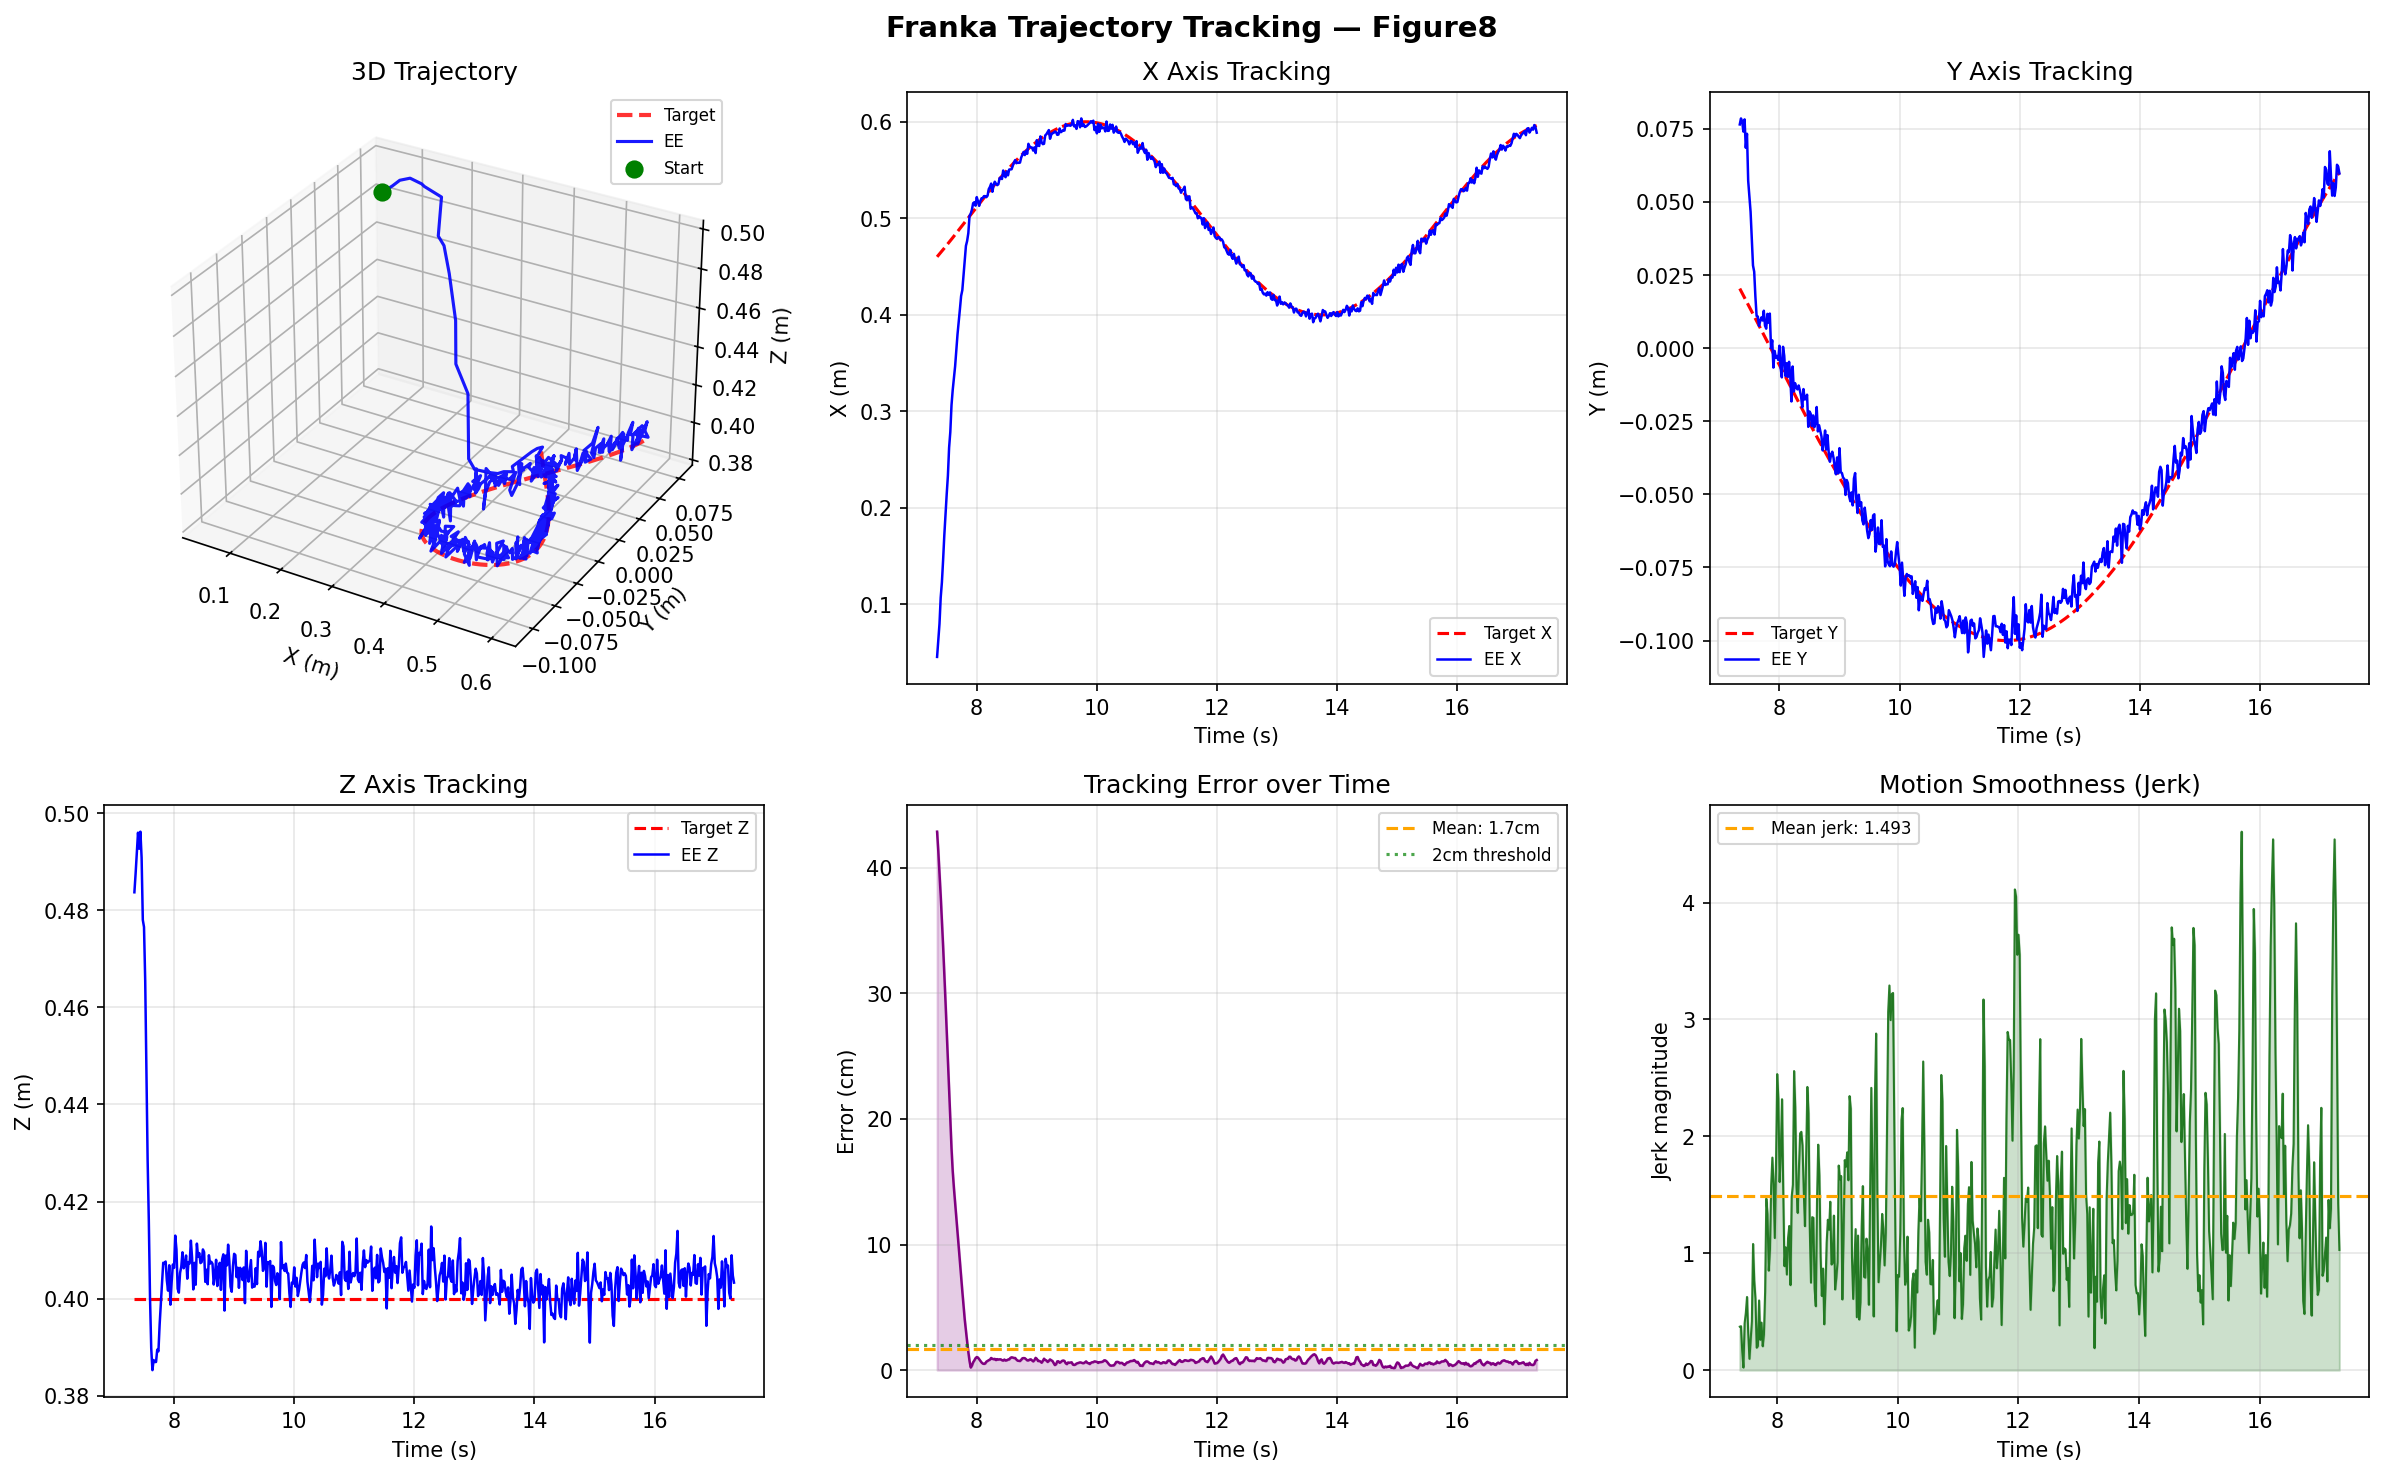
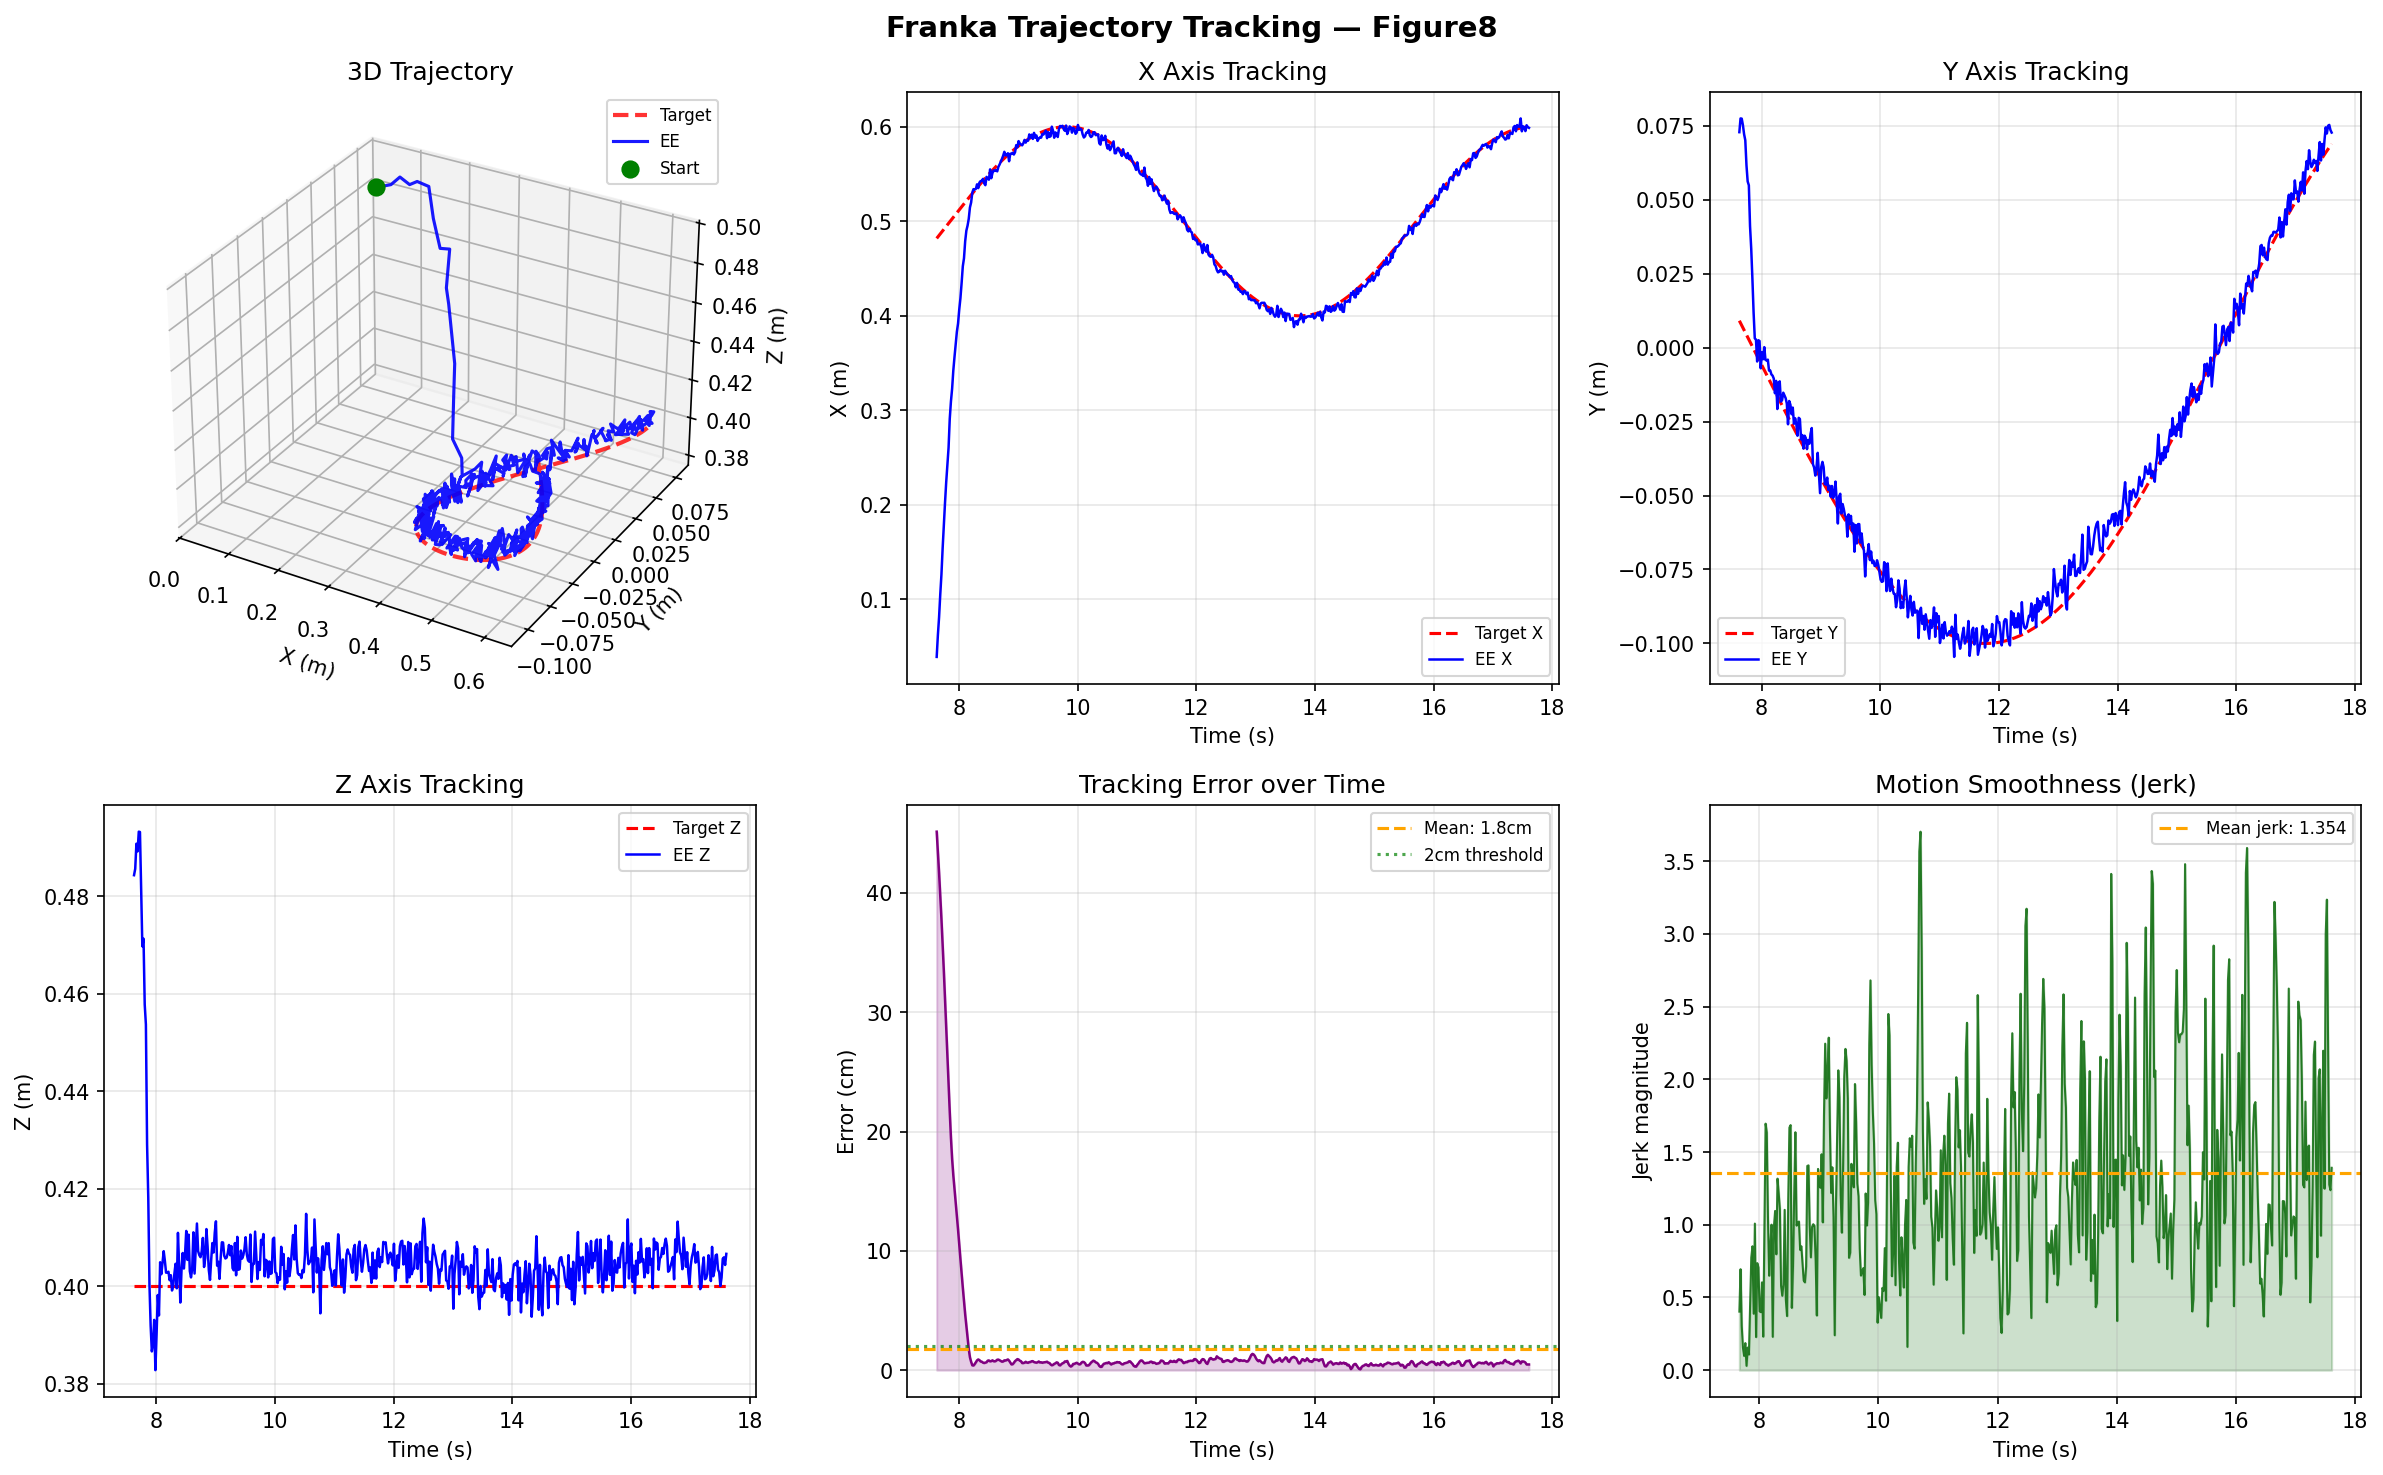
chore: correct plots with per-trajectory models, add random trajectory

diff --git a/franka_env.py b/franka_env.py
@@ -66,12 +66,22 @@ def linear_trajectory(t, start=(0.4, -0.2, 0.4), end=(0.4, 0.2, 0.4), period=4.0
     vel = speed * (np.array(end) - np.array(start))
     return pos, vel
 
+def random_waypoint_trajectory(t, centre=(0.5, 0.0, 0.4), r=0.10, speed=0.3):
+    x = centre[0] + r * np.sin(speed * t) * np.cos(0.7 * t)
+    y = centre[1] + r * np.cos(speed * t) * np.sin(1.1 * t)
+    z = centre[2] + 0.05 * np.sin(1.3 * t)
+    vx = r * (speed * np.cos(speed*t) * np.cos(0.7*t) - 0.7 * np.sin(speed*t) * np.sin(0.7*t))
+    vy = r * (-speed * np.sin(speed*t) * np.sin(1.1*t) + 1.1 * np.cos(speed*t) * np.cos(1.1*t))
+    vz = 0.05 * 1.3 * np.cos(1.3 * t)
+    return np.array([x, y, z]), np.array([vx, vy, vz])
 
 TRAJECTORIES = {
     "circle":   circle_trajectory,
     "figure8":  figure8_trajectory,
     "linear":   linear_trajectory,
+    "random":   random_waypoint_trajectory,
 }
+
 
 
 # ── Environment ──────────────────────────────────────────────
